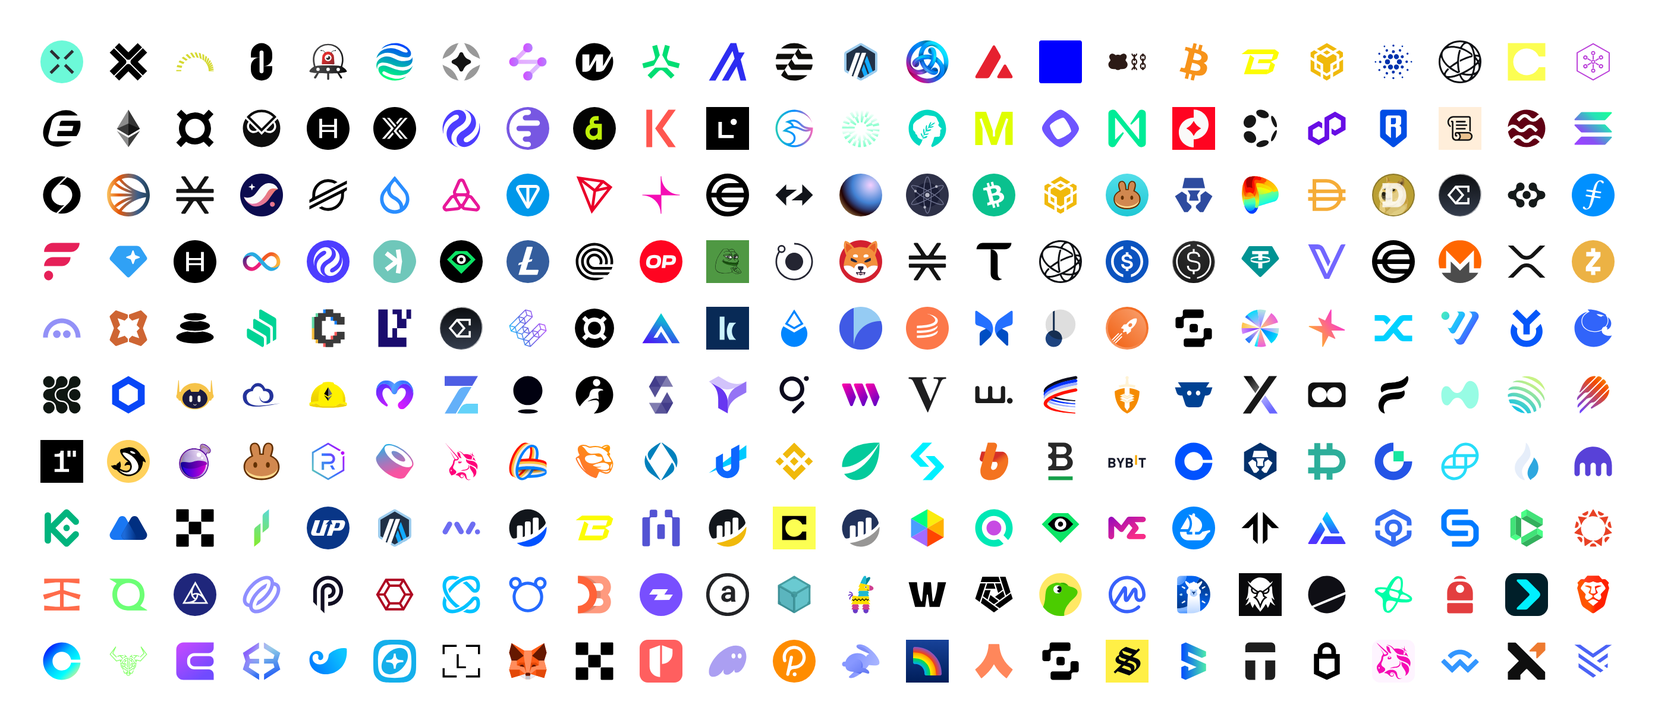
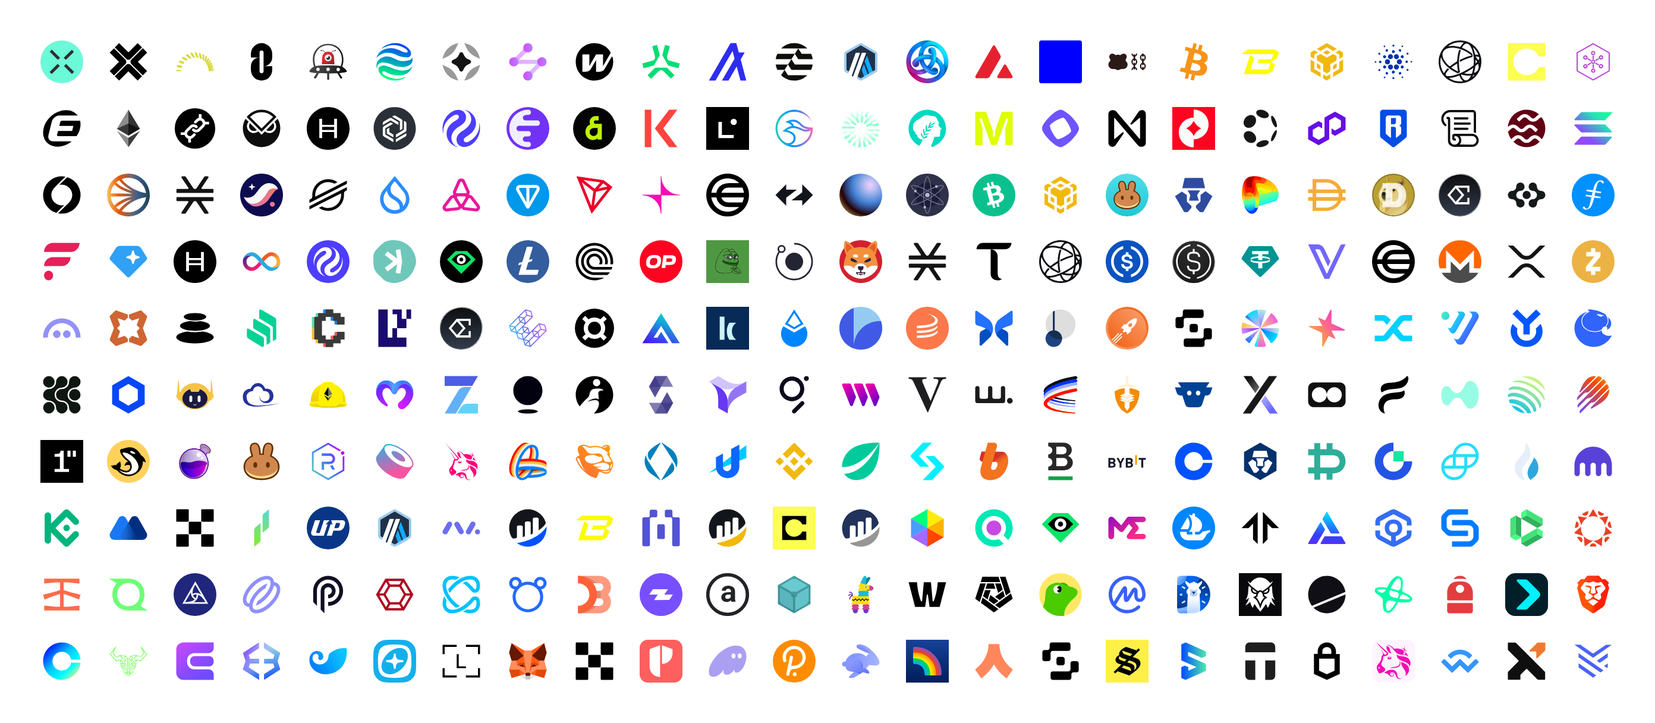
fix(chain): use official marks for Kava, ImmutableX, Ink, Scroll, Near, Stacks, Fraxtal
Replace seven chain marks with the current official vectors (kava.io/branding,
immutable.com logo.svg, inkonchain/ink-kit, scroll.io, near.org, the stacks.co
navbar symbol and frax.com's Fraxtal chain icon) and rebuild their monos from
them. Drop the stale Scroll mono-audit allowlist entry, exempt Fraxtal's
keyline-ring misreading like defi/Frax, and update the base-background
examples in docs/icon-variants.md (#835).

Claude-Session: https://claude.ai/code/session_0113jxgcTGsEPf2j7H39sjZS

diff --git a/src/chain/Scroll.tsx b/src/chain/Scroll.tsx
@@ -1,63 +1,36 @@
 import { createIcon } from '../utils';
 
-// Source: https://scroll.io
+// Source: https://scroll.io (the inline mark-scroll SVG of the site header and footer; docs.scroll.io serves the same mark)
+// Default: the current Scroll mark from scroll.io, its five paths unchanged, in the site's --ink colour #0A0A0A (the paths use currentColor and the header sets color:var(--ink)); it replaces the earlier beige tile with the coloured scroll, which scroll.io and docs.scroll.io no longer use (scroll.io/brand-kit returns 404)
+// Mono: the same five paths in currentColor
 /** Scroll chain icon (colored). */
 export const Scroll = /* @__PURE__ */ createIcon(
   'Scroll',
   '0 0 64 64',
   () => (
     <>
-      <path fill="#FFEEDA" d="M0 0h64v64H0z" />
-      <path
-        fill="#FFEEDA"
-        d="M48.14 38.62V16.79a3.3 3.3 0 0 0-3.32-3.3H22.05c-4.92.07-8.87 4.1-8.87 9.03 0 1.65.45 3.08 1.13 4.33.57 1.04 1.48 2.02 2.37 2.76.26.2.13.11.91.59a10 10 0 0 0 2.3.98l-.02 13.06q.02.92.26 1.77a5.8 5.8 0 0 0 3.52 3.94q1.09.45 2.42.49l18.2.05c3.6 0 6.55-2.94 6.55-6.57.01-2.16-1.07-4.1-2.68-5.3"
-      />
-      <path
-        fill="#EBC28E"
-        d="M48.58 44.08a4.34 4.34 0 0 1-4.34 4.2l-12.5-.05a6.6 6.6 0 0 0 1.6-4.3c0-2.56-1.54-4.33-1.54-4.33h12.46a4.34 4.34 0 0 1 4.34 4.33z"
-      />
-      <path
-        fill="#101010"
-        d="M17.88 27.76c-1.44-1.37-2.45-3.13-2.45-5.23v-.22c.12-3.57 3.06-6.45 6.63-6.56h22.78c.59.03 1.06.45 1.06 1.06v19.27c.52.09.78.16 1.29.35.4.14.95.46.95.46V16.8a3.3 3.3 0 0 0-3.32-3.3H22.05c-4.92.07-8.87 4.09-8.87 9.02 0 2.87 1.31 5.32 3.45 7.03.14.12.29.28.66.28a1.1 1.1 0 0 0 1.11-1.11c0-.5-.22-.66-.52-.97"
-      />
-      <path
-        fill="#101010"
-        d="M44.24 37.35H26.4a2.2 2.2 0 0 0-2.17 2.17v2.57c.03 1.18 1.04 2.2 2.25 2.2h1.33v-2.2h-1.34v-2.5h.72c2.26 0 3.92 2.08 3.92 4.33 0 2-1.82 4.53-4.84 4.33-2.69-.18-4.14-2.57-4.14-4.33V22.16c0-.99-.8-1.8-1.79-1.8h-1.79v2.24h1.33v21.34c-.07 4.34 3.09 6.51 6.38 6.51l18 .06a6.57 6.57 0 0 0 6.57-6.57 6.57 6.57 0 0 0-6.58-6.6Zm4.34 6.73a4.34 4.34 0 0 1-4.34 4.2l-12.5-.05a6.6 6.6 0 0 0 1.6-4.3c0-2.56-1.54-4.33-1.54-4.33h12.46a4.34 4.34 0 0 1 4.34 4.33zM39.43 23H25.97v-2.23h13.46c.6 0 1.11.5 1.11 1.11A1.1 1.1 0 0 1 39.43 23"
-      />
-      <path
-        fill="#101010"
-        d="M39.43 33.48H25.97v-2.22h13.46c.6 0 1.11.5 1.11 1.11a1.1 1.1 0 0 1-1.11 1.11m2.38-5.24H25.97V26H41.8c.6 0 1.1.5 1.1 1.11a1.1 1.1 0 0 1-1.09 1.13"
-      />
+      <path d="M11 25.68c-2.18-2.03-3.67-4.68-3.67-7.8v-.34c.2-5.3 4.54-9.64 9.84-9.78h33.87c.88.07 1.56.68 1.56 1.56v28.72c.75.13 1.16.27 1.9.47.61.2 1.43.68 1.43.68V9.32c-.07-2.71-2.24-4.88-4.95-4.88H17.17C9.84 4.57 4 10.54 4 17.88c0 4.27 1.97 7.94 5.1 10.45.2.2.4.4 1 .4 1.03 0 1.7-.8 1.64-1.62 0-.75-.27-1.02-.75-1.42" />
+      <path d="M50.16 39.94H23.6c-1.76 0-3.19 1.42-3.19 3.26V47c.07 1.76 1.57 3.26 3.33 3.26h1.97V47h-1.97v-3.73h1.09c3.32 0 5.84 3.12 5.84 6.45 0 2.98-2.72 6.72-7.2 6.45-4-.27-6.18-3.8-6.18-6.45V17.33c0-1.42-1.22-2.64-2.65-2.64H12V18h1.97v31.77c-.14 6.45 4.61 9.7 9.5 9.7l26.74.08c5.37 0 9.78-4.35 9.78-9.78-.07-5.43-4.41-9.84-9.84-9.84m6.45 9.98c-.14 3.46-3 6.24-6.45 6.24l-18.6-.07c1.5-1.7 2.37-3.93 2.37-6.38 0-3.8-2.24-6.44-2.24-6.44h18.53c3.53 0 6.45 2.91 6.45 6.44z" />
+      <path d="M43.03 18.56H23V15.3h20.03c.88 0 1.63.74 1.63 1.63s-.68 1.63-1.63 1.63" />
+      <path d="M43.03 34.17H23v-3.33h20.03c.88 0 1.63.75 1.63 1.63 0 .95-.68 1.7-1.63 1.7" />
+      <path d="M46.56 26.36H23.01v-3.32h23.55c.88 0 1.63.74 1.63 1.63 0 .95-.75 1.7-1.63 1.7" />
     </>
   ),
-  {},
+  { fill: '#0A0A0A' },
 );
 
 /** Scroll chain icon (monochrome). */
 export const ScrollMono = /* @__PURE__ */ createIcon(
   'ScrollMono',
   '0 0 64 64',
-  (_props, _id) => (
-    <g transform="scale(1.6)">
-      <rect width="40" height="40" mask={`url(#${_id}-a)`} />
-      <defs>
-        <mask id={`${_id}-a`}>
-          <rect width="40" height="40" fill="#fff" />
-          <path
-            fill="#000"
-            d="M11.18 17.35c-.9-.85-1.54-1.95-1.54-3.27v-.13c.08-2.24 1.91-4.04 4.15-4.1h14.23c.37.02.67.28.67.66v12.04c.32.05.49.1.8.22.25.09.6.28.6.28V10.5A2.1 2.1 0 0 0 28 8.44H13.78a5.64 5.64 0 0 0-5.54 5.64c0 1.8.82 3.32 2.15 4.4.1.07.18.17.42.17a.7.7 0 0 0 .69-.7c0-.3-.13-.4-.32-.6"
-          />
-          <path
-            fill="#000"
-            d="M27.65 23.34H16.5a1.36 1.36 0 0 0-1.35 1.36v1.6c.02.75.65 1.38 1.4 1.38h.83V26.3h-.83v-1.57H17c1.41 0 2.45 1.3 2.45 2.71 0 1.24-1.14 2.83-3.03 2.7-1.68-.1-2.59-1.6-2.59-2.7v-13.6c0-.62-.5-1.12-1.11-1.12H11.6v1.4h.83v13.33c-.05 2.71 1.93 4.07 3.99 4.07l11.25.04a4.1 4.1 0 0 0 4.1-4.11 4.1 4.1 0 0 0-4.1-4.12Zm2.72 4.21a2.7 2.7 0 0 1-2.72 2.62l-7.82-.03a4 4 0 0 0 1-2.68c0-1.6-.95-2.71-.95-2.71h7.78a2.7 2.7 0 0 1 2.71 2.7zm-5.73-13.17h-8.41v-1.4h8.41c.38 0 .7.3.7.7a.7.7 0 0 1-.7.7"
-          />
-          <path
-            fill="#000"
-            d="M24.64 20.93h-8.41v-1.39h8.41c.38 0 .7.3.7.7a.7.7 0 0 1-.7.69m1.49-3.28h-9.9v-1.4h9.9c.37 0 .68.3.68.7a.7.7 0 0 1-.68.7"
-          />
-        </mask>
-      </defs>
-    </g>
+  () => (
+    <>
+      <path d="M11 25.68c-2.18-2.03-3.67-4.68-3.67-7.8v-.34c.2-5.3 4.54-9.64 9.84-9.78h33.87c.88.07 1.56.68 1.56 1.56v28.72c.75.13 1.16.27 1.9.47.61.2 1.43.68 1.43.68V9.32c-.07-2.71-2.24-4.88-4.95-4.88H17.17C9.84 4.57 4 10.54 4 17.88c0 4.27 1.97 7.94 5.1 10.45.2.2.4.4 1 .4 1.03 0 1.7-.8 1.64-1.62 0-.75-.27-1.02-.75-1.42" />
+      <path d="M50.16 39.94H23.6c-1.76 0-3.19 1.42-3.19 3.26V47c.07 1.76 1.57 3.26 3.33 3.26h1.97V47h-1.97v-3.73h1.09c3.32 0 5.84 3.12 5.84 6.45 0 2.98-2.72 6.72-7.2 6.45-4-.27-6.18-3.8-6.18-6.45V17.33c0-1.42-1.22-2.64-2.65-2.64H12V18h1.97v31.77c-.14 6.45 4.61 9.7 9.5 9.7l26.74.08c5.37 0 9.78-4.35 9.78-9.78-.07-5.43-4.41-9.84-9.84-9.84m6.45 9.98c-.14 3.46-3 6.24-6.45 6.24l-18.6-.07c1.5-1.7 2.37-3.93 2.37-6.38 0-3.8-2.24-6.44-2.24-6.44h18.53c3.53 0 6.45 2.91 6.45 6.44z" />
+      <path d="M43.03 18.56H23V15.3h20.03c.88 0 1.63.74 1.63 1.63s-.68 1.63-1.63 1.63" />
+      <path d="M43.03 34.17H23v-3.33h20.03c.88 0 1.63.75 1.63 1.63 0 .95-.68 1.7-1.63 1.7" />
+      <path d="M46.56 26.36H23.01v-3.32h23.55c.88 0 1.63.74 1.63 1.63 0 .95-.75 1.7-1.63 1.7" />
+    </>
   ),
-  { fill: 'currentColor', ids: true },
+  { fill: 'currentColor' },
 );

diff --git a/src/chain/Fraxtal.tsx b/src/chain/Fraxtal.tsx
@@ -1,15 +1,28 @@
 import { createIcon } from '../utils';
 
-// Source: https://frax.finance
+// Source: https://static.frax.com/images/chains/fraxtal.svg (the Fraxtal chain icon of the frax.com app)
+// Default: the official Fraxtal chain icon served by frax.com (a white chain-link glyph on a black disc with a thin white rim), paths unchanged and full-bleed on the 64 grid; it replaces the generic Frax currency sign. frax.com/brand offers PNG files only
+// Mono: the black disc in currentColor with the chain-link glyph knocked out (fill-rule=evenodd), built from the coloured paths; the white rim is dropped, so the pair is fitted to the coloured box
 /** Fraxtal chain icon (colored). */
 export const Fraxtal = /* @__PURE__ */ createIcon(
   'Fraxtal',
   '0 0 64 64',
   () => (
-    <>
-      <path d="M11.2 42.39q.26.56.58 1.1.46.8.4.93c-.03.06-1.88 2.04-4.1 4.4L4 53.14a292 292 0 0 0 6.82 6.65l.23.2 3.52-3.74L18.63 52l.5-.53.5.31q1 .65 2.08 1.18c.45-2.32 1.25-4.59 2.21-6.79l-.34-.16c-2.93-1.53-4.74-4.7-5.8-8.07q-1.22.47-2.34 1.12c-1.56 1.06-2.75 2.3-4.24 3.34m12.7-27.35q-.65-.95-1.35-1.89A4.7 4.7 0 0 1 20 11.5l-.55.34-.62-.62q-1.68-1.63-3.38-3.25l-3.41-3.3-.67-.66-3.34 3.54a264 264 0 0 0-3.36 3.61c-.01.03 1.64 1.68 3.67 3.63l3.92 3.79.23.22-.42.7q-.23.38-.43.77 3.2 2.08 6.54 4.03c1.45-2.71 4.18-5.05 7.29-6.56L24.4 16.2c-.27-.38-.27-.76-.5-1.15m28.23 4.58-.29-.5 3.92-4.16c2.15-2.27 3.9-4.17 3.89-4.2-.05-.15-6.92-6.72-7.01-6.72-.06 0-1.8 1.78-3.85 3.96l-3.8 4c-.04.01-.22-.09-.42-.23-.4-.26-2.34.6-3.61.92-.71 1.58-1.33 3.2-1.96 4.81q1.03.54 1.97 1.21c1.02.73 3.44 2.64 4.16 3.66q.26.38.5.78c2.27-.96 4.6-1.83 6.88-2.83zm.44 25.93-.93-.9.42-.7q.25-.41.48-.84c-1.95-1.7-3.77-3.4-5.86-5.02-.76 2.27-1.91 4.29-3.47 5.77a11 11 0 0 1-2.95 1.95l.1.5c.44 2.08 1.65 3.67 2.52 5.53q.16.34.27.7l.84-.47.7-.44.76.75q3.87 3.78 7.79 7.5c.07.03 6.76-7.05 6.75-7.14a563 563 0 0 0-7.42-7.18z" />
-      <path d="M32.03 55.96a23.94 23.94 0 1 1 9-46.11 23.94 23.94 0 0 1-9 46.1m0-38.48C24 17.47 17.47 24 17.47 32.02S24 46.6 32.02 46.6 46.6 40.06 46.6 32.03s-6.53-14.56-14.56-14.56" />
-    </>
+    <g transform="scale(.22578)">
+      <path
+        fill="#fff"
+        d="M141.73 283.46c-19.13 0-37.69-3.75-55.17-11.14-16.88-7.14-32.03-17.36-45.05-30.37s-23.23-28.17-30.37-45.05C3.75 179.42 0 160.86 0 141.73s3.75-37.69 11.14-55.17c7.14-16.88 17.36-32.03 30.37-45.05s28.17-23.23 45.05-30.37C104.04 3.75 122.6 0 141.73 0s37.69 3.75 55.17 11.14c16.88 7.14 32.03 17.36 45.05 30.37s23.23 28.17 30.37 45.05c7.39 17.48 11.14 36.04 11.14 55.17s-3.75 37.69-11.14 55.17c-7.14 16.88-17.36 32.03-30.37 45.05s-28.17 23.23-45.05 30.37c-17.48 7.39-36.04 11.14-55.17 11.14"
+      />
+      <circle cx="141.73" cy="141.73" r="134.22" />
+      <path
+        fill="#fff"
+        d="M234.89 97.01H209.2a36.4 36.4 0 0 0-9.03-14.94c-4.25-4.25-9.37-7.33-14.94-9.05V47.35h-18.25v24.87a34.4 34.4 0 0 0-17.08 9.34l-12.16 12.16c-3.56 3.56-3.56 9.34 0 12.91 3.56 3.56 9.34 3.56 12.91 0l12.16-12.16c3.16-3.16 7.43-4.86 12-4.81 4.67.06 9.09 1.95 12.46 5.32 6.88 6.88 7.11 17.86.51 24.46l-25.57 25.57c-6.6 6.6-17.58 6.37-24.46-.51-3.56-3.56-9.34-3.56-12.91 0-3.56 3.56-3.56 9.34 0 12.91 7.09 7.09 16.38 10.65 25.61 10.65 8.98 0 17.9-3.37 24.67-10.14l25.57-25.57c4.85-4.85 7.94-10.8 9.32-17.08h24.9V97.02Z"
+      />
+      <path
+        fill="#fff"
+        d="M131.38 175.84 119.22 188c-6.6 6.6-17.57 6.37-24.46-.51-6.88-6.88-7.11-17.86-.51-24.46l25.57-25.57c6.6-6.6 17.58-6.37 24.46.51 3.56 3.56 9.34 3.56 12.91 0 3.56-3.56 3.56-9.34 0-12.91-14-14-36.55-14.23-50.27-.51l-25.57 25.57c-4.85 4.85-7.94 10.8-9.32 17.08h-24.9v18.25h25.69a36.4 36.4 0 0 0 9.03 14.94 36 36 0 0 0 14.94 9.03v25.7h18.25v-24.9c6.29-1.37 12.24-4.47 17.08-9.32l12.16-12.16c3.56-3.56 3.56-9.34 0-12.91-3.56-3.56-9.34-3.56-12.91 0Z"
+      />
+    </g>
   ),
   { fill: '#000' },
 );
@@ -19,10 +32,10 @@ export const FraxtalMono = /* @__PURE__ */ createIcon(
   'FraxtalMono',
   '0 0 64 64',
   () => (
-    <>
-      <path d="M11.2 42.39q.26.56.58 1.1.46.8.4.93c-.03.06-1.88 2.04-4.1 4.4L4 53.14a292 292 0 0 0 6.82 6.65l.23.2 3.52-3.74L18.63 52l.5-.53.5.31q1 .65 2.08 1.18c.45-2.32 1.25-4.59 2.21-6.79l-.34-.16c-2.93-1.53-4.74-4.7-5.8-8.07q-1.22.47-2.34 1.12c-1.56 1.06-2.75 2.3-4.24 3.34m12.7-27.35q-.65-.95-1.35-1.89A4.7 4.7 0 0 1 20 11.5l-.55.34-.62-.62q-1.68-1.63-3.38-3.25l-3.41-3.3-.67-.66-3.34 3.54a264 264 0 0 0-3.36 3.61c-.01.03 1.64 1.68 3.67 3.63l3.92 3.79.23.22-.42.7q-.23.38-.43.77 3.2 2.08 6.54 4.03c1.45-2.71 4.18-5.05 7.29-6.56L24.4 16.2c-.27-.38-.27-.76-.5-1.15m28.23 4.58-.29-.5 3.92-4.16c2.15-2.27 3.9-4.17 3.89-4.2-.05-.15-6.92-6.72-7.01-6.72-.06 0-1.8 1.78-3.85 3.96l-3.8 4c-.04.01-.22-.09-.42-.23-.4-.26-2.34.6-3.61.92-.71 1.58-1.33 3.2-1.96 4.81q1.03.54 1.97 1.21c1.02.73 3.44 2.64 4.16 3.66q.26.38.5.78c2.27-.96 4.6-1.83 6.88-2.83zm.44 25.93-.93-.9.42-.7q.25-.41.48-.84c-1.95-1.7-3.77-3.4-5.86-5.02-.76 2.27-1.91 4.29-3.47 5.77a11 11 0 0 1-2.95 1.95l.1.5c.44 2.08 1.65 3.67 2.52 5.53q.16.34.27.7l.84-.47.7-.44.76.75q3.87 3.78 7.79 7.5c.07.03 6.76-7.05 6.75-7.14a563 563 0 0 0-7.42-7.18z" />
-      <path d="M32.03 55.96a23.94 23.94 0 1 1 9-46.11 23.94 23.94 0 0 1-9 46.1m0-38.48C24 17.47 17.47 24 17.47 32.02S24 46.6 32.02 46.6 46.6 40.06 46.6 32.03s-6.53-14.56-14.56-14.56" />
-    </>
+    <path
+      fillRule="evenodd"
+      d="M1.7 32C1.7 15.26 15.27 1.7 32 1.7S62.3 15.27 62.3 32 48.73 62.3 32 62.3 1.7 48.73 1.7 32m51.33-10.1h-5.8a8 8 0 0 0-2.04-3.37 8 8 0 0 0-3.37-2.04v-5.8H37.7v5.62a8 8 0 0 0-3.86 2.1l-2.74 2.75c-.8.8-.8 2.1 0 2.92.8.8 2.1.8 2.91 0l2.75-2.75a3.7 3.7 0 0 1 2.7-1.09c1.06.02 2.06.44 2.82 1.2 1.56 1.56 1.6 4.04.12 5.53l-5.78 5.77c-1.49 1.5-3.97 1.44-5.52-.11-.8-.8-2.1-.8-2.91 0-.8.8-.8 2.1 0 2.91 1.6 1.6 3.7 2.4 5.78 2.4 2.03 0 4.04-.76 5.57-2.28l5.77-5.78a8 8 0 0 0 2.1-3.85h5.63zM29.66 39.7l-2.74 2.75c-1.5 1.49-3.97 1.44-5.52-.12-1.56-1.55-1.61-4.03-.12-5.52l5.77-5.77c1.5-1.5 3.97-1.44 5.53.11.8.8 2.1.8 2.91 0 .8-.8.8-2.1 0-2.91-3.16-3.16-8.25-3.22-11.35-.12l-5.77 5.77a8 8 0 0 0-2.1 3.86h-5.63v4.12h5.8a8 8 0 0 0 2.04 3.37 8 8 0 0 0 3.37 2.04v5.8h4.12v-5.62c1.42-.3 2.77-1 3.86-2.1l2.75-2.75c.8-.8.8-2.1 0-2.91-.8-.8-2.11-.8-2.92 0"
+    />
   ),
   { fill: 'currentColor' },
 );

diff --git a/src/chain/ImmutableX.tsx b/src/chain/ImmutableX.tsx
@@ -1,14 +1,17 @@
 import { createIcon } from '../utils';
 
-// Source: https://immutable.com
+// Source: https://www.immutable.com/images/logo.svg (the Immutable logo served by immutable.com: site header and schema.org Organization logo)
+// Default: the Immutable symbol (a #2B3038 disc with the hexagonal knot knocked out) cropped from the official logo.svg: its symbol subpath unchanged, the wordmark subpath left out. It replaces the retired Immutable X 'X' on a black disc; Immutable publishes no brand kit (immutable.com/brand redirects to the home page) and chain 13371 is Immutable zkEVM
+// Mono: the same symbol path in currentColor (the disc in ink with the knot knocked out), the geometry of the official single-colour logo-black.svg / footer-logo.svg
+// Export name: kept as ImmutableX; the rename to Immutable is an open owner decision (#815)
 /** Immutable X chain icon (colored). */
 export const ImmutableX = /* @__PURE__ */ createIcon(
   'ImmutableX',
   '0 0 64 64',
   () => (
-    <path d="M32 0C14.33 0 0 14.33 0 32s14.33 32 32 32 32-14.33 32-32S49.67 0 32 0m2.62 22.73 1.25-1.46 4.3-5.02h3.91l-8.25 9.6-1.23-1.45c-.41-.49-.4-1.21.02-1.67m-10.36-6.48s6.9 8.27 9.4 10.83c.4.4.33.93-.03 1.35l-1.36 1.59-11.9-13.77zm5.61 24.82-1.24 1.45-4.31 5.03h-3.9l8.25-9.61 1.23 1.45c.4.49.4 1.21-.03 1.68m.16-8.45-12.8 14.93h-4.2L25.9 32.66c.41-.48.41-1.19 0-1.65L13.13 16.25h4.04L30 31.14c.32.43.38 1.07.03 1.48m10.15 14.93-8.71-10.16-.44-.55c-.4-.48-.4-1.22.03-1.68l16.23-18.91h4.03L34.98 34.9c-.42.47-.43 1.2-.02 1.68l9.42 10.96zm7.42 0L38.22 36.6c-.26-.31-.36-.74-.26-1.13.07-.2.23-.45.37-.6l1.09-1.2 12 13.88z" />
+    <path d="M32.01 0C14.58 0 .45 14.32.45 32s14.13 32 31.56 32 31.54-14.32 31.54-32S49.42 0 31.99 0m-1.4 12.95q1.33-.68 2.66.1l8.82 5.13q1.4.89 1.4 2.59v11.58q0 .27-.2.44l-3.53 2.08V22.33q.02-1.1-.9-1.63l-10.25-5.96-.53-.33a33 33 0 0 1 2.54-1.48m-.62 39.53-.46-.22q-6.78-4-13.57-7.93-1.88-1.05-1.81-3.24v-9.4q-.05-2.1 1.78-3.11 4.77-2.76 9.5-5.56.37-.22.77 0l3.35 1.98-.55.31-10.26 6q-.86.47-.84 1.4.06 3.7 0 7.4 0 .98.84 1.42l10.83 6.34c.31.17.44.35.44.75zm0-7.04-.77-.44-8.6-5.04c-.34-.17-.45-.35-.43-.75v-5.67q-.04-.4.31-.55 1.61-.9 3.14-1.85l.3-.16v5.59q-.04.97.8 1.43l4.85 2.83q.45.24.4.75zm-3.3-24.87c-.65-.36-1.13-.36-1.77 0l-10.24 6.02-.58.31c.09-1.32-.17-2.56.27-3.75a3 3 0 0 1 1.32-1.5l8.56-5.01q1.57-.88 3.16.02l9.7 5.7c.16.08.34.28.34.4q.04 1.98 0 4.18-1.72-1.06-3.35-1.98-3.71-2.16-7.44-4.4m22.84 21.3c-.09 1.08-.7 1.83-1.63 2.36l-10.44 6.12-3.27 1.92-.44.22v-3.97q-.04-.36.27-.56l15.22-8.89.27-.13q.09 1.54 0 2.93m0-7.32c0 1.21-.62 2.05-1.66 2.64l-11.83 6.98-2.25 1.28v-3.93q-.04-.46.36-.66l10.81-6.3q.93-.5.88-1.58v-12.6q1.41.77 2.65 1.63 1.08.84 1.1 2.23z" />
   ),
-  {},
+  { fill: '#2B3038' },
 );
 
 /** Immutable X chain icon (monochrome). */
@@ -16,7 +19,7 @@ export const ImmutableXMono = /* @__PURE__ */ createIcon(
   'ImmutableXMono',
   '0 0 64 64',
   () => (
-    <path d="M32 0C14.33 0 0 14.33 0 32s14.33 32 32 32 32-14.33 32-32S49.67 0 32 0m2.62 22.73 1.25-1.46 4.3-5.02h3.91l-8.25 9.6-1.23-1.45c-.41-.49-.4-1.21.02-1.67m-10.36-6.48s6.9 8.27 9.4 10.83c.4.4.33.93-.03 1.35l-1.36 1.59-11.9-13.77zm5.61 24.82-1.24 1.45-4.31 5.03h-3.9l8.25-9.61 1.23 1.45c.4.49.4 1.21-.03 1.68m.16-8.45-12.8 14.93h-4.2L25.9 32.66c.41-.48.41-1.19 0-1.65L13.13 16.25h4.04L30 31.14c.32.43.38 1.07.03 1.48m10.15 14.93-8.71-10.16-.44-.55c-.4-.48-.4-1.22.03-1.68l16.23-18.91h4.03L34.98 34.9c-.42.47-.43 1.2-.02 1.68l9.42 10.96zm7.42 0L38.22 36.6c-.26-.31-.36-.74-.26-1.13.07-.2.23-.45.37-.6l1.09-1.2 12 13.88z" />
+    <path d="M32.01 0C14.58 0 .45 14.32.45 32s14.13 32 31.56 32 31.54-14.32 31.54-32S49.42 0 31.99 0m-1.4 12.95q1.33-.68 2.66.1l8.82 5.13q1.4.89 1.4 2.59v11.58q0 .27-.2.44l-3.53 2.08V22.33q.02-1.1-.9-1.63l-10.25-5.96-.53-.33a33 33 0 0 1 2.54-1.48m-.62 39.53-.46-.22q-6.78-4-13.57-7.93-1.88-1.05-1.81-3.24v-9.4q-.05-2.1 1.78-3.11 4.77-2.76 9.5-5.56.37-.22.77 0l3.35 1.98-.55.31-10.26 6q-.86.47-.84 1.4.06 3.7 0 7.4 0 .98.84 1.42l10.83 6.34c.31.17.44.35.44.75zm0-7.04-.77-.44-8.6-5.04c-.34-.17-.45-.35-.43-.75v-5.67q-.04-.4.31-.55 1.61-.9 3.14-1.85l.3-.16v5.59q-.04.97.8 1.43l4.85 2.83q.45.24.4.75zm-3.3-24.87c-.65-.36-1.13-.36-1.77 0l-10.24 6.02-.58.31c.09-1.32-.17-2.56.27-3.75a3 3 0 0 1 1.32-1.5l8.56-5.01q1.57-.88 3.16.02l9.7 5.7c.16.08.34.28.34.4q.04 1.98 0 4.18-1.72-1.06-3.35-1.98-3.71-2.16-7.44-4.4m22.84 21.3c-.09 1.08-.7 1.83-1.63 2.36l-10.44 6.12-3.27 1.92-.44.22v-3.97q-.04-.36.27-.56l15.22-8.89.27-.13q.09 1.54 0 2.93m0-7.32c0 1.21-.62 2.05-1.66 2.64l-11.83 6.98-2.25 1.28v-3.93q-.04-.46.36-.66l10.81-6.3q.93-.5.88-1.58v-12.6q1.41.77 2.65 1.63 1.08.84 1.1 2.23z" />
   ),
   { fill: 'currentColor' },
 );

diff --git a/src/chain/Stacks.tsx b/src/chain/Stacks.tsx
@@ -1,6 +1,9 @@
 import { createIcon } from '../utils';
 
-// Source: https://stacks.co
+// Source: https://cdn.prod.website-files.com/618b0aafa4afde65f2fe38fe/65dbdd6c87cf20baca9ac049_stacks-logo-navbar.svg (the symbol in the stacks.co navbar)
+// Source: https://www.stacks.co/brand (redirects to the Stacks Brand 2024 Figma file)
+// Default: the official stacks.co navbar symbol (#141414, fill-rule=evenodd), path unchanged; it replaces a near-identical redraw stretched to a square box
+// Mono: the same path in currentColor
 /** Stacks chain icon (colored). */
 export const Stacks = /* @__PURE__ */ createIcon(
   'Stacks',
@@ -8,8 +11,7 @@ export const Stacks = /* @__PURE__ */ createIcon(
   () => (
     <path
       fillRule="evenodd"
-      d="M41.97 22.35a1.1 1.1 0 0 1 .07-1.2L52.27 6.1a1.3 1.3 0 0 0 .06-1.36 1.3 1.3 0 0 0-1.2-.7h-3.98a1.4 1.4 0 0 0-1.13.6L34.07 22.29a1.6 1.6 0 0 1-1.35.7h-1.5a1.7 1.7 0 0 1-1.35-.7L17.98 4.62A1.3 1.3 0 0 0 16.85 4h-3.98a1.3 1.3 0 0 0-1.2.73 1.4 1.4 0 0 0 .06 1.37l10.23 15.08a1.1 1.1 0 0 1 .07 1.15 1.1 1.1 0 0 1-1.02.61H5.36A1.34 1.34 0 0 0 4 24.3v3.28c0 .77.61 1.34 1.35 1.34h53.28A1.34 1.34 0 0 0 60 27.57V24.3c0-.7-.52-1.24-1.2-1.34H43a1.1 1.1 0 0 1-1.02-.6M29.9 41.72 17.95 59.35a1.3 1.3 0 0 1-1.13.61h-3.98a1.4 1.4 0 0 1-1.2-.7 1.3 1.3 0 0 1 .06-1.37l10.2-15.05a1.1 1.1 0 0 0 .06-1.18 1.2 1.2 0 0 0-1-.61H5.35A1.34 1.34 0 0 1 4 39.7v-3.28a1.34 1.34 0 0 1 1.35-1.34h53.28A1.34 1.34 0 0 1 60 36.43v3.28a1.34 1.34 0 0 1-1.35 1.34H43.02a1.1 1.1 0 0 0-1.01.6 1.1 1.1 0 0 0 .06 1.16L52.3 57.9a1.36 1.36 0 0 1-1.13 2.1h-3.99a1.3 1.3 0 0 1-1.1-.59L34.13 41.78a1.6 1.6 0 0 0-1.35-.7h-1.5a1.7 1.7 0 0 0-1.35.7z"
-      clipRule="evenodd"
+      d="M41.89 22.35a1.1 1.1 0 0 1 .06-1.2L52.07 6.1c.28-.42.3-.94.08-1.36a1.4 1.4 0 0 0-1.2-.7h-3.93a1.4 1.4 0 0 0-1.1.62l-11.88 17.6a1.7 1.7 0 0 1-1.33.73h-1.5a1.7 1.7 0 0 1-1.33-.72L18.12 4.63a1.4 1.4 0 0 0-1.1-.61h-3.97q-.8.03-1.2.72a1.4 1.4 0 0 0 .06 1.39l10.15 15.06c.25.33.28.8.06 1.16a1.1 1.1 0 0 1-1 .61H5.59a1.4 1.4 0 0 0-1.33 1.33v3.27c0 .78.6 1.34 1.33 1.34h52.8c.78 0 1.33-.61 1.33-1.34v-3.24a1.4 1.4 0 0 0-1.16-1.33H42.89a1.1 1.1 0 0 1-1-.61M29.91 41.74l-11.84 17.6a1.4 1.4 0 0 1-1.11.62h-3.94a1.4 1.4 0 0 1-1.2-.7 1.4 1.4 0 0 1 .06-1.38l10.13-15.03a1.1 1.1 0 0 0 .05-1.17 1.1 1.1 0 0 0-1-.6H5.6a1.4 1.4 0 0 1-1.33-1.37v-3.27c0-.72.58-1.33 1.33-1.33h52.8c.72 0 1.33.55 1.33 1.33v3.27c0 .75-.55 1.36-1.33 1.36H42.92q-.72 0-1 .61-.34.64.05 1.14L52.12 57.9q.36.63.06 1.38a1.4 1.4 0 0 1-1.2.7h-3.93a1.4 1.4 0 0 1-1.11-.56L34.1 41.79a1.7 1.7 0 0 0-1.33-.7H31.3a1.7 1.7 0 0 0-1.36.7z"
     />
   ),
   { fill: '#141414' },
@@ -22,8 +24,7 @@ export const StacksMono = /* @__PURE__ */ createIcon(
   () => (
     <path
       fillRule="evenodd"
-      d="M41.97 22.35a1.1 1.1 0 0 1 .07-1.2L52.27 6.1a1.3 1.3 0 0 0 .06-1.36 1.3 1.3 0 0 0-1.2-.7h-3.98a1.4 1.4 0 0 0-1.13.6L34.07 22.29a1.6 1.6 0 0 1-1.35.7h-1.5a1.7 1.7 0 0 1-1.35-.7L17.98 4.62A1.3 1.3 0 0 0 16.85 4h-3.98a1.3 1.3 0 0 0-1.2.73 1.4 1.4 0 0 0 .06 1.37l10.23 15.08a1.1 1.1 0 0 1 .07 1.15 1.1 1.1 0 0 1-1.02.61H5.36A1.34 1.34 0 0 0 4 24.3v3.28c0 .77.61 1.34 1.35 1.34h53.28A1.34 1.34 0 0 0 60 27.57V24.3c0-.7-.52-1.24-1.2-1.34H43a1.1 1.1 0 0 1-1.02-.6M29.9 41.72 17.95 59.35a1.3 1.3 0 0 1-1.13.61h-3.98a1.4 1.4 0 0 1-1.2-.7 1.3 1.3 0 0 1 .06-1.37l10.2-15.05a1.1 1.1 0 0 0 .06-1.18 1.2 1.2 0 0 0-1-.61H5.35A1.34 1.34 0 0 1 4 39.7v-3.28a1.34 1.34 0 0 1 1.35-1.34h53.28A1.34 1.34 0 0 1 60 36.43v3.28a1.34 1.34 0 0 1-1.35 1.34H43.02a1.1 1.1 0 0 0-1.01.6 1.1 1.1 0 0 0 .06 1.16L52.3 57.9a1.36 1.36 0 0 1-1.13 2.1h-3.99a1.3 1.3 0 0 1-1.1-.59L34.13 41.78a1.6 1.6 0 0 0-1.35-.7h-1.5a1.7 1.7 0 0 0-1.35.7z"
-      clipRule="evenodd"
+      d="M41.89 22.35a1.1 1.1 0 0 1 .06-1.2L52.07 6.1c.28-.42.3-.94.08-1.36a1.4 1.4 0 0 0-1.2-.7h-3.93a1.4 1.4 0 0 0-1.1.62l-11.88 17.6a1.7 1.7 0 0 1-1.33.73h-1.5a1.7 1.7 0 0 1-1.33-.72L18.12 4.63a1.4 1.4 0 0 0-1.1-.61h-3.97q-.8.03-1.2.72a1.4 1.4 0 0 0 .06 1.39l10.15 15.06c.25.33.28.8.06 1.16a1.1 1.1 0 0 1-1 .61H5.59a1.4 1.4 0 0 0-1.33 1.33v3.27c0 .78.6 1.34 1.33 1.34h52.8c.78 0 1.33-.61 1.33-1.34v-3.24a1.4 1.4 0 0 0-1.16-1.33H42.89a1.1 1.1 0 0 1-1-.61M29.91 41.74l-11.84 17.6a1.4 1.4 0 0 1-1.11.62h-3.94a1.4 1.4 0 0 1-1.2-.7 1.4 1.4 0 0 1 .06-1.38l10.13-15.03a1.1 1.1 0 0 0 .05-1.17 1.1 1.1 0 0 0-1-.6H5.6a1.4 1.4 0 0 1-1.33-1.37v-3.27c0-.72.58-1.33 1.33-1.33h52.8c.72 0 1.33.55 1.33 1.33v3.27c0 .75-.55 1.36-1.33 1.36H42.92q-.72 0-1 .61-.34.64.05 1.14L52.12 57.9q.36.63.06 1.38a1.4 1.4 0 0 1-1.2.7h-3.93a1.4 1.4 0 0 1-1.11-.56L34.1 41.79a1.7 1.7 0 0 0-1.33-.7H31.3a1.7 1.7 0 0 0-1.36.7z"
     />
   ),
   { fill: 'currentColor' },

diff --git a/src/chain/Ink.tsx b/src/chain/Ink.tsx
@@ -1,19 +1,28 @@
 import { createIcon } from '../utils';
 
-// Source: https://inkonchain.com
+// Source: https://github.com/inkonchain/ink-kit/blob/767f5a2f03c9055803bb47a3701e046ee1efc131/src/icons/InkLogo.svg (Ink's official UI kit, linked from inkonchain.com)
+// Source: https://github.com/inkonchain/ink-kit/blob/767f5a2f03c9055803bb47a3701e046ee1efc131/src/icons/Logo/Ink.svg
+// Default: the official InkLogo.svg (the #7132F5 mark on a #F0EFFF disc), paths unchanged and full-bleed on the 64 grid; it replaces the same mark in #7757E2 without the light disc
+// Mono: the official one-colour Logo/Ink.svg (the purple mark alone, fill-rule=evenodd) in currentColor
 /** Ink chain icon (colored). */
 export const Ink = /* @__PURE__ */ createIcon(
   'Ink',
   '0 0 64 64',
   () => (
-    <path
-      fill="#7757E2"
-      fillRule="evenodd"
-      d="M63.98 32.01a31.98 31.98 0 1 0-63.96 0 31.98 31.98 0 0 0 63.96 0M36.56 55.95c0 2.16-1.77 3.93-4.3 3.98h-.31a27.92 27.92 0 1 1 .3-55.84c2.85.05 4.31 1.81 4.31 3.98 0 2.22-1.95 3.84-4.01 3.84-2.07 0-2.17 0-4.15.16s-4.03 1.78-4.03 3.98c0 2.22 1.8 4 4.03 4h17.55c2.22 0 4.02 1.78 4.02 3.98s-1.8 3.99-4.02 3.99H18.91c-2.22 0-4.02 1.79-4.02 4S16.69 36 18.9 36h13.63a4 4 0 0 1 4.02 4c0 2.2-1.8 3.97-4.01 3.97H28.4c-2.23 0-4.03 1.8-4.03 4s1.85 3.81 4.03 3.98l.47.03c.77.06 1.19.1 1.61.11.5.02 1.01.02 2.13.02 2.22 0 3.95 1.64 3.95 3.84"
-      clipRule="evenodd"
-    />
+    <>
+      <path
+        fill="#F0EFFF"
+        d="M32 62.72a30.72 30.72 0 0 0 0-61.44 30.72 30.72 0 0 0 0 61.44"
+      />
+      <path
+        fill="#7132F5"
+        fillRule="evenodd"
+        d="M64 32a32 32 0 1 0-64 0 32 32 0 0 0 64 0M36.56 55.96c0 2.16-1.76 3.92-4.32 4H32a27.94 27.94 0 1 1 .28-55.88c2.88 0 4.32 1.8 4.32 4 0 2.16-1.96 3.8-4 3.8-2.08 0-2.2 0-4.16.16-2 .16-4 1.8-4 4a4 4 0 0 0 4 4H46a4 4 0 0 1 4 4 4 4 0 0 1-4 4H18.92a4 4 0 0 0-4.04 4 4 4 0 0 0 4 3.96h13.68a4 4 0 0 1 4 4 4 4 0 0 1-4 4H28.4a4 4 0 0 0-4 4c0 2.16 1.8 3.8 4 3.96h.48l1.6.12h2.12c2.24 0 4 1.68 4 3.88"
+        clipRule="evenodd"
+      />
+    </>
   ),
-  {},
+  { fill: 'none' },
 );
 
 /** Ink chain icon (monochrome). */
@@ -23,7 +32,7 @@ export const InkMono = /* @__PURE__ */ createIcon(
   () => (
     <path
       fillRule="evenodd"
-      d="M63.98 32.01a31.98 31.98 0 1 0-63.96 0 31.98 31.98 0 0 0 63.96 0M36.56 55.95c0 2.16-1.77 3.93-4.3 3.98h-.31a27.92 27.92 0 1 1 .3-55.84c2.85.05 4.31 1.81 4.31 3.98 0 2.22-1.95 3.84-4.01 3.84-2.07 0-2.17 0-4.15.16s-4.03 1.78-4.03 3.98c0 2.22 1.8 4 4.03 4h17.55c2.22 0 4.02 1.78 4.02 3.98s-1.8 3.99-4.02 3.99H18.91c-2.22 0-4.02 1.79-4.02 4S16.69 36 18.9 36h13.63a4 4 0 0 1 4.02 4c0 2.2-1.8 3.97-4.01 3.97H28.4c-2.23 0-4.03 1.8-4.03 4s1.85 3.81 4.03 3.98l.47.03c.77.06 1.19.1 1.61.11.5.02 1.01.02 2.13.02 2.22 0 3.95 1.64 3.95 3.84"
+      d="M64 32C64 14.33 49.67 0 32 0S0 14.33 0 32s14.33 32 32 32 32-14.33 32-32M36.56 55.95c0 2.17-1.77 3.93-4.3 4h-.31C16.55 59.89 4.07 47.4 4.07 32S16.57 4.07 32 4.07h.25c2.86.05 4.31 1.81 4.31 3.98 0 2.2-1.95 3.83-4.01 3.83s-2.18 0-4.16.16-4.03 1.79-4.03 4a4 4 0 0 0 4.03 4h17.57c2.21 0 4.01 1.77 4.01 3.97a4 4 0 0 1-4.01 4H18.89a4 4 0 0 0-4.01 4c0 2.2 1.8 3.99 4.03 3.99h13.62a4 4 0 0 1 4.02 4c0 2.19-1.8 3.97-4.02 3.97h-4.16a4 4 0 0 0-4.02 4c0 2.2 1.85 3.82 4.02 3.98l.48.04 1.6.1c.52.03 1.03.03 2.14.03 2.22 0 3.96 1.63 3.96 3.83"
       clipRule="evenodd"
     />
   ),

diff --git a/src/chain/Near.tsx b/src/chain/Near.tsx
@@ -1,17 +1,17 @@
 import { createIcon } from '../utils';
 
-// Source: https://near.org
+// Source: https://www.near.org (the NEAR symbol inlined in the site header, fill #000000)
+// Source: https://docs.near.org (logo.svg of the docs, the same black symbol with the wordmark)
+// Default: the NEAR symbol from the near.org header, path unchanged, in its #000000; it replaces a #00EC97 N whose colour and geometry match no current official asset (near.org/brand returns 404)
+// Mono: the same path in currentColor
 /** Near chain icon (colored). */
 export const Near = /* @__PURE__ */ createIcon(
   'Near',
   '0 0 64 64',
   () => (
-    <path
-      fill="#00EC97"
-      d="m48.88 6.88-11.7 17.35c-.8 1.2.76 2.6 1.88 1.61l10.2-9.99c.3-.26.74-.08.74.36v31.28c0 .42-.56.6-.8.3L15.7 6.13a5.8 5.8 0 0 0-4.54-2.1c-3.6-.01-7.13 1.8-7.13 5.96v44a5.98 5.98 0 0 0 11.05 3.11l11.67-17.35c.8-1.2-.74-2.6-1.86-1.62l-10.13 10.2c-.3.26-.74.08-.74-.36v-31.2c0-.44.56-.6.8-.3l33.44 41.4c1.12 1.38 2.8 2.12 4.54 2.12 3.61 0 7.2-1.8 7.2-5.98V10a6 6 0 0 0-11.13-3.1z"
-    />
+    <path d="M54.02 4.57a6 6 0 0 0-5.07 2.76L37.23 24.39c-.38.56-.23 1.3.37 1.68.45.3 1.08.26 1.5-.08l11.53-9.81a.5.5 0 0 1 .63.03q.11.11.11.34v30.64q0 .41-.45.45a.4.4 0 0 1-.37-.15L15.73 6.62a6 6 0 0 0-4.55-2.05h-1.2c-3.28 0-5.97 2.61-5.97 5.78v43.3c0 3.2 2.69 5.82 5.97 5.82a6 6 0 0 0 5.08-2.76l11.72-17.06a1.12 1.12 0 0 0-.38-1.68 1.3 1.3 0 0 0-1.49.08l-11.53 9.81a.5.5 0 0 1-.64-.04l-.1-.33V16.8q0-.45.44-.49.22 0 .37.2l34.82 40.86c1.12 1.3 2.8 2.05 4.52 2.05h1.23c3.29 0 5.97-2.61 5.97-5.82V10.35c0-3.2-2.68-5.82-5.97-5.82" />
   ),
-  {},
+  { fill: '#000' },
 );
 
 /** Near chain icon (monochrome). */
@@ -19,7 +19,7 @@ export const NearMono = /* @__PURE__ */ createIcon(
   'NearMono',
   '0 0 64 64',
   () => (
-    <path d="m48.88 6.88-11.7 17.35c-.8 1.2.76 2.6 1.88 1.61l10.2-9.99c.3-.26.74-.08.74.36v31.28c0 .42-.56.6-.8.3L15.7 6.13a5.8 5.8 0 0 0-4.54-2.1c-3.6-.01-7.13 1.8-7.13 5.96v44a5.98 5.98 0 0 0 11.05 3.11l11.67-17.35c.8-1.2-.74-2.6-1.86-1.62l-10.13 10.2c-.3.26-.74.08-.74-.36v-31.2c0-.44.56-.6.8-.3l33.44 41.4c1.12 1.38 2.8 2.12 4.54 2.12 3.61 0 7.2-1.8 7.2-5.98V10a6 6 0 0 0-11.13-3.1z" />
+    <path d="M54.02 4.57a6 6 0 0 0-5.07 2.76L37.23 24.39c-.38.56-.23 1.3.37 1.68.45.3 1.08.26 1.5-.08l11.53-9.81a.5.5 0 0 1 .63.03q.11.11.11.34v30.64q0 .41-.45.45a.4.4 0 0 1-.37-.15L15.73 6.62a6 6 0 0 0-4.55-2.05h-1.2c-3.28 0-5.97 2.61-5.97 5.78v43.3c0 3.2 2.69 5.82 5.97 5.82a6 6 0 0 0 5.08-2.76l11.72-17.06a1.12 1.12 0 0 0-.38-1.68 1.3 1.3 0 0 0-1.49.08l-11.53 9.81a.5.5 0 0 1-.64-.04l-.1-.33V16.8q0-.45.44-.49.22 0 .37.2l34.82 40.86c1.12 1.3 2.8 2.05 4.52 2.05h1.23c3.29 0 5.97-2.61 5.97-5.82V10.35c0-3.2-2.68-5.82-5.97-5.82" />
   ),
   { fill: 'currentColor' },
 );

diff --git a/src/chain/Kava.tsx b/src/chain/Kava.tsx
@@ -1,16 +1,22 @@
 import { createIcon } from '../utils';
 
-// Source: https://kava.io
+// Source: https://www.kava.io/branding
+// Source: https://cdn.prod.website-files.com/61e9c71623b1f0311abcbbbc/6226336a8447b54da43b4423_Kava-Logomark.svg (Primary Logomark SVG, linked from https://www.kava.io/branding)
 // Source: https://cdn.prod.website-files.com/61e9c71623b1f0311abcbbbc/622b68fc6c920e4466196240_Kava-Coin.svg (official KAVA coin, linked from https://www.kava.io/branding)
+// Default: the official Primary Logomark (Kava-Logomark.svg: one rect and one polygon in Kava Red #FF433E, the primary colour on kava.io/branding), shapes unchanged; it replaces a narrower K in #FF564F that matched no official asset
+// Mono: the same two shapes in currentColor
 // Circle: the official Kava-Coin.svg (a white K, one rect and one polygon, on a #FF433E disc), shapes unchanged and full-bleed on the 64 grid; CircleMono is that disc in currentColor with the K knocked out (fill-rule=evenodd)
 /** Kava chain icon (colored). */
 export const Kava = /* @__PURE__ */ createIcon(
   'Kava',
   '0 0 64 64',
   () => (
-    <path d="M18.8 60V4h-8.79v56zM43 60 23.2 32 43 4.01h11L34.2 32 54 60z" />
+    <>
+      <path d="M7.64 4h9.77v56H7.64z" />
+      <path d="m44.13 60-21.4-28 21.4-28H56.4L35.26 32 56.4 60z" />
+    </>
   ),
-  { fill: '#FF564F' },
+  { fill: '#FF433E' },
 );
 
 /** Kava chain icon (monochrome). */
@@ -18,7 +24,10 @@ export const KavaMono = /* @__PURE__ */ createIcon(
   'KavaMono',
   '0 0 64 64',
   () => (
-    <path d="M18.8 60V4h-8.79v56zM43 60 23.2 32 43 4.01h11L34.2 32 54 60z" />
+    <>
+      <path d="M7.64 4h9.77v56H7.64z" />
+      <path d="m44.13 60-21.4-28 21.4-28H56.4L35.26 32 56.4 60z" />
+    </>
   ),
   { fill: 'currentColor' },
 );

diff --git a/src/manifest/index.ts b/src/manifest/index.ts
@@ -391,6 +391,7 @@ export const ICON_MANIFEST: readonly IconManifestEntry[] = [
     chainId: 13_371,
     slug: 'immutablex',
     variants: ['', 'Mono'],
+    brandColor: '#2b3038',
   },
   { name: 'ImmutableXMono', category: 'chain' },
   {
@@ -407,7 +408,7 @@ export const ICON_MANIFEST: readonly IconManifestEntry[] = [
     chainId: 57_073,
     slug: 'ink',
     variants: ['', 'Mono'],
-    brandColor: '#7757e2',
+    brandColor: '#7132f5',
   },
   { name: 'InkMono', category: 'chain' },
   {
@@ -426,7 +427,7 @@ export const ICON_MANIFEST: readonly IconManifestEntry[] = [
     chainId: 2222,
     slug: 'kava',
     variants: ['', 'Mono', 'Circle', 'CircleMono'],
-    brandColor: '#ff564f',
+    brandColor: '#ff433e',
   },
   { name: 'KavaCircle', category: 'chain' },
   { name: 'KavaCircleMono', category: 'chain' },
@@ -495,7 +496,7 @@ export const ICON_MANIFEST: readonly IconManifestEntry[] = [
     category: 'chain',
     slug: 'near',
     variants: ['', 'Mono'],
-    brandColor: '#00ec97',
+    brandColor: '#000000',
   },
   { name: 'NearMono', category: 'chain' },
   { name: 'OpBnb', category: 'chain', chainId: 204, slug: 'opbnb' },
@@ -554,7 +555,7 @@ export const ICON_MANIFEST: readonly IconManifestEntry[] = [
     chainId: 534_352,
     slug: 'scroll',
     variants: ['', 'Mono'],
-    brandColor: '#ffeeda',
+    brandColor: '#0a0a0a',
   },
   { name: 'ScrollMono', category: 'chain' },
   {

diff --git a/test/legibility.test.ts b/test/legibility.test.ts
@@ -67,6 +67,12 @@ type Exemption = {
 
 /** Keep this list short: prefer adding official variants. */
 const EXEMPTIONS: Readonly<Record<UnitKey, Exemption>> = {
+  'chain/Fraxtal': {
+    tone: 'light',
+    kind: 'no-official-alternative',
+    searched: ['https://frax.com', 'https://static.frax.com/images/chains'],
+    note: "The same static misreading as defi/Frax: the official Fraxtal chain icon's white disc is only a keyline ring under the black disc, so on light backgrounds it reads as the black disc with the white chain link, but counting paints treats the white disc as a light container. FraxtalMono with a dark color is the same black disc.",
+  },
   'coin/Looks': {
     tone: 'dark',
     kind: 'legible-variant',

diff --git a/scripts/build-icons/mono-audit.ts b/scripts/build-icons/mono-audit.ts
@@ -176,11 +176,6 @@ export const MONO_AUDIT_ALLOWLIST: Readonly<Record<PairId, MonoAllowance>> = {
     reason:
       'Each bar fades from white to #00FF93, so the white tops fall outside the best threshold cut of the reference; the mono inks the 16 bars with the same paths, the geometry of the official single-colour brandmarks.',
   },
-  'chain/Scroll': {
-    kind: 'false-positive',
-    reason:
-      'Container polarity: the beige tile becomes ink with the scroll knocked out, so the threshold reference is inverted.',
-  },
   'chain/Zora': {
     kind: 'false-positive',
     reason:

diff --git a/docs/icon-variants.md b/docs/icon-variants.md
@@ -40,7 +40,7 @@ Whether the base icon (`Foo`) includes a background container depends on the off
 
 - **Include the background in the base variant** when the brand's official icon is always presented with a specific background (colored square, circle, or rounded rectangle) in all official assets — the background is integral to the brand mark.
 
-  _Examples_: `Scroll` (beige rectangle), `Hedera` (black disc), `Linea` (black rectangle)
+  _Examples_: `Hedera` (black disc), `Linea` (black rectangle), `Fraxtal` (black disc)
 
   In these cases, do **not** add a separate `FooCircle`/`FooSquare` variant unless the mark also officially exists without a background.
 
